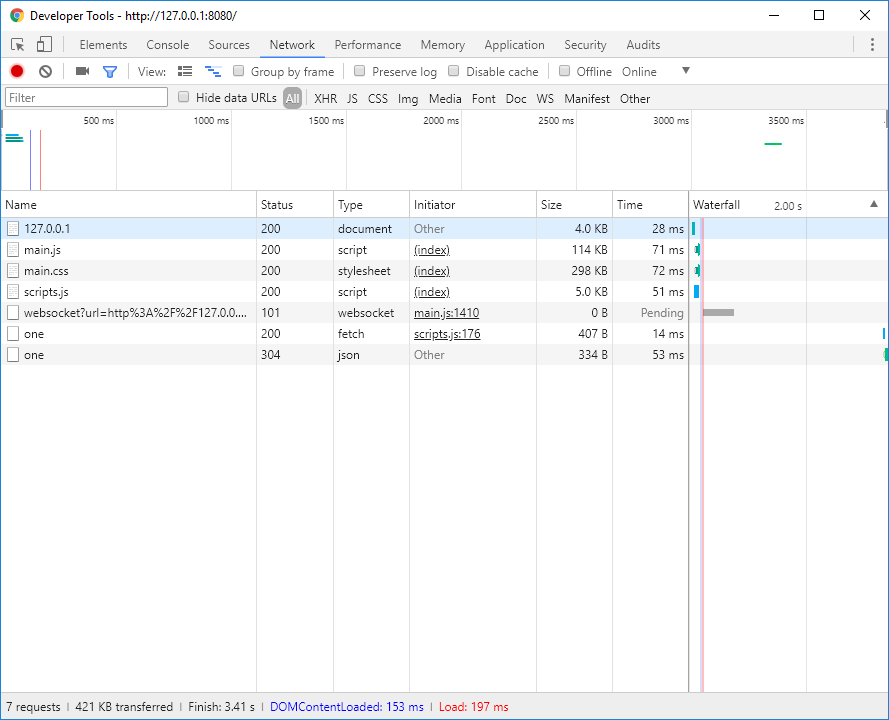
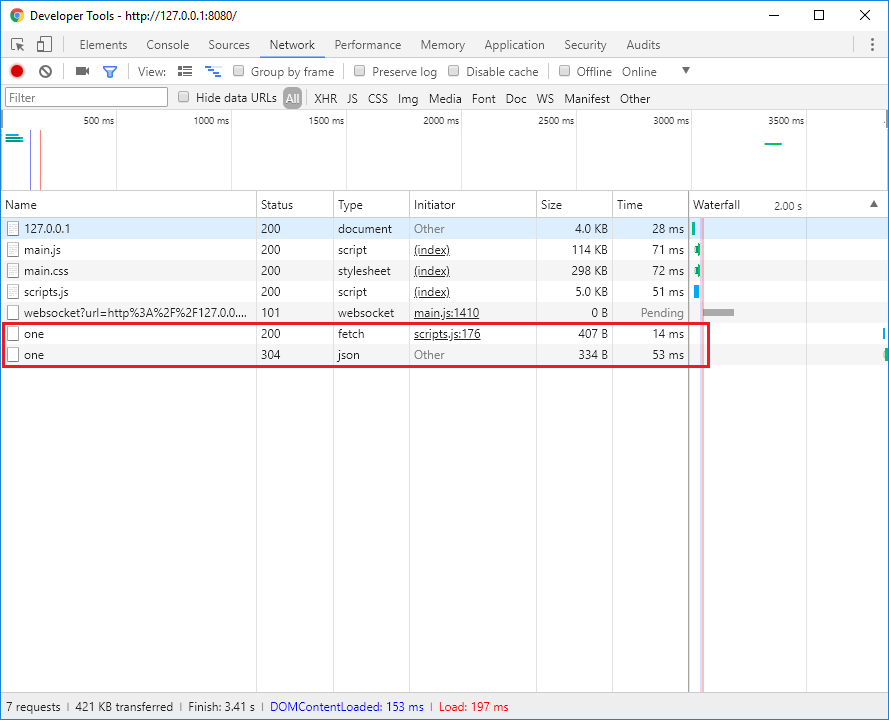
aaron - parts of chapter 10 complete

Changed region(s): [[0.0, 0.4278, 0.82, 0.5194]]

diff --git a/docs/javascript_library/06-Express-Server/10-authenticated-routes/completedCode/server/middleware/validate-session.js b/docs/javascript_library/06-Express-Server/10-authenticated-routes/completedCode/server/middleware/validate-session.js
@@ -22,7 +22,7 @@ module.exports = function(req, res, next) {
 							res.status(401).send({error: 'Not authorized'});
 						});
 				} else {
-					res.status(401).send({error: 'Not authorized'});
+					res.status(402).send({error: 'Not authorized'});
 				}
 			});
 		} else {

diff --git a/docs/javascript_library/06-Express-Server/10-authenticated-routes/02-validate-session.md b/docs/javascript_library/06-Express-Server/10-authenticated-routes/02-validate-session.md
@@ -9,28 +9,28 @@ var sequelize = require('../db');
 var User = sequelize.import('../models/user');
 
 module.exports = function(req, res, next) {
-	if (req.headers.accept === '*/*') {
+	if (req.headers.accept === '*/*') { //11
 		next()
 	} else {
-		var sessionToken = req.headers.authorization;
-		console.log(sessionToken)
-		if (!sessionToken) 
-			return res.status(403).send({ auth: false, message: 'No token provided.' });
-		if (!req.body.user && sessionToken){
-			jwt.verify(sessionToken, process.env.JWT_SECRET, (err, decoded) => {
+		var sessionToken = req.headers.authorization; //1
+		console.log(sessionToken) //2
+		if (!sessionToken) return res.status(403).send({ auth: false, message: 'No token provided.' }); //3
+
+		if (!req.body.user && sessionToken){ //4
+			jwt.verify(sessionToken, process.env.JWT_SECRET, (err, decoded) => { //5
 				if(decoded){
-					User.findOne({where: { id: decoded.id}}).then(user => {
-						req.user = user;
+					User.findOne({where: { id: decoded.id}}).then(user => { //6
+						req.user = user; //7
 						next();
 					},
-						function(){
-							res.status(401).send({error: 'Not authorized'});
-						});
-				} else {
-					res.status(401).send({error: 'Not authorized'});
+					function(){ //8
+						res.status(401).send({error: 'Not authorized'});
+					});
+				} else { //9
+					res.status(402).send({error: 'Not authorized'});
 				}
 			});
-		} else {
+		} else { //10
 			next();
 		}
 	}
@@ -38,4 +38,19 @@ module.exports = function(req, res, next) {
 ```
 
 ### What Just Happened?
-More to come later.
+There's a lot here, so take it slow through this explanation. Additional information on the `verify` method can be found [here](https://github.com/auth0/node-jsonwebtoken).
+
+1. The variable `sessionToken` is created to hold the token, which is pulled from the authorization header of the request. 
+2. The token is printed to the console. This is purely for debugging purpose to verify that the token is being sent to the server, and should not be left in the final code. This is a potential security vulnerability.
+3. If no token is present, the `403 Bad Request` error is returned as the response. We have several different error handling responses in this file, so assigning each a different error code or message is a big help in debugging.
+4. No `user` property is ever provided in the request, so this check will run whenever a token is present. This prevents unauthorized use of a token that was assigned to a different user.
+5. The `verify` method decodes the token with the provided secret, then sends a callback with two variables. If successful, `decoded` will contain the decoded payload; if not, `decoded` remains `undefined`. `err` is `null` by default.
+6. If `decoded` has a value, the Sequelize `findOne` method looks for an id in the `users` table that matches the `decoded.id` property. This value is then passed into a callback.
+7. The callback sets the `user` value for the request as the `id` value passed to it then sends the request on to its next destination. This property will be necessary later in adding to the database.
+8. If no matching `id` is found, an error message is thrown.
+9. If no value for `decoded`, an error message is thrown. 
+10. Error handling. If a value is present for `req.body.user` is found and a token is present, one can assume that the user is already signed in and the request is sent to its next destination. However, this value should NEVER be present on the request, as no `user` property is sent on `req.body`. Once decoded, `req.user` is set instead. As mentioned before, this prevents the use of a token by a different user than it was originally assigned to.
+11. Look back at the pictures in the first module of this chapter, specifically the images of the requests. The `OPTIONS` request doesn't have the session token, so an error would be thrown and the header with the token would never be sent. This conditional checks the `Accept` header in the request. The `OPTIONS` request contains a value of `*/*` for this header, while the second request contains a value of `application/json`. This lets the initial request through to the server to do its check so that the second request containing the token can also be sent.
+
+### Before You Move On
+Go back and read through all that again. Make a flow chart of what's happening. Explain to a partner what is going on. Do whatever you need to do in order to understand this file. This is some very deep, very detailed code that can be tough to understand. In fact, this code had been used in projects going back over a year while not functioning properly, which was not discovered until the writing of this GitBook. Security should be your #1, #2, and #3 priorities when coding, so it's worth the extra time to get it right.

diff --git a/docs/javascript_library/06-Express-Server/10-authenticated-routes/00-intro.md b/docs/javascript_library/06-Express-Server/10-authenticated-routes/00-intro.md
@@ -7,10 +7,14 @@ We now have the ability log back into an account and receive a token. What shoul
 Basically, we write a middleware function that acts as a gate between the client and the server. If request has a token, it's allowed to pass through the gate to reach the server. If not, it's rejected. The response doesn't need to use the gate; it can go around the side of the gate. The request just can't quite figure that out. While it seems like our `fetch` function just puts the token into the request and fires it off, it's actually doing a lot more. Let's take a deeper look at `fetch`.
 
 ### What is `fetch` Doing Here?
-Before it sends off the request to the server, `fetch` performs a  `CORS`, or `pre-flight` check. `CORS` stands for Cross Origin Resource Sharing. You may have seen this error before while working with the APIs. Think back to our token analogy about the bar and the doorman. Before he gives you the stamp, the doorman checks your id and asks you a couple of questions to make sure that you're allowed into the bar. This is exactly how `CORS` works: before it gets to the server, the request is checked to make sure that whatever it contains is allowed by the server. Previously, we installed an npm package (`cors`) that handled this functionality, but `fetch` eliminates that dependency altogether.
+Before it sends off the request to the server, `fetch` performs a  `CORS`, or `pre-flight` check. `CORS` stands for Cross Origin Resource Sharing. You may have seen this error before while working with the APIs. Think back to our token analogy about the bar and the doorman. Before he gives you the stamp, the doorman checks your id and asks you a couple of questions to make sure that you're allowed into the bar. This is exactly how `CORS` works: before it gets to the server, the request is checked to make sure that whatever it contains is allowed by the server. In the past, you could install an npm package (`cors`) that handled this functionality, but `fetch` eliminates that dependency altogether.
 
 ### CORS Request
-So what exactly is this initial request? It's a request sent with the HTTP method `OPTIONS`. It doesn't actually send any of the headers you include, but rather checks to make sure those headers are allowed by the server. If everything checks out, the server responds with a `200 OK` and fetch follows with the request it's been given (`GET`, `POST`, etc.). If something's not quite right, an error will be returned, and the second request is never sent. This provides a little extra security for the server by verifying that the request from the client will properly formatted, and also saves time by not sending an invalid request. <br>
+Take a look at this picture: <br> ![two requests](assets/fetchRequests.png) <br>
+Notice that while we only sent a single request,  there are two by the name `one`. If you click on the first request, you'll see this: <br>
+![OPTIONS](assets/fetchOPTIONSrequest.png) <br>
+This is how `fetch` handles CORS: It sends a request with the HTTP method `OPTIONS`. It doesn't actually send any of the headers you include, but rather checks to make sure those headers are allowed by the server. If everything checks out, the server responds with a `200 OK` and fetch follows with the request it's been given (`GET`, `POST`, etc.), seen here: <br> ![2nd request](assets/fetch2ndrequest.png) <br>
+This is the request that we send through fetch that actually contains the headers we provided, such as the sessionToken. If something's not quite right, an error will be returned, and this request is never sent. This provides a little extra security for the server by verifying that the request from the client will properly formatted, and also saves time by not sending an invalid request. <br>
 
 Let's do a little bit of server setup now, then make some changes to our client.
 

diff --git a/docs/javascript_library/06-Express-Server/09-middleware/00-test-client.md b/docs/javascript_library/06-Express-Server/09-middleware/00-test-client.md
@@ -200,7 +200,7 @@ This is the same function as the one above it, only we use arrow functions inste
 The last couple of functions received data back from the database and printed it to the console. This time, we actually display that data. We use a `for of` loop to iterate through the response object and create an `<li>` element for each item, which are then added to the `<ul>` object to be shown to the user.
 <hr>
 
-### app.js Part 2
+### scripts.js Part 2
 
 ```js
 /*************************************
